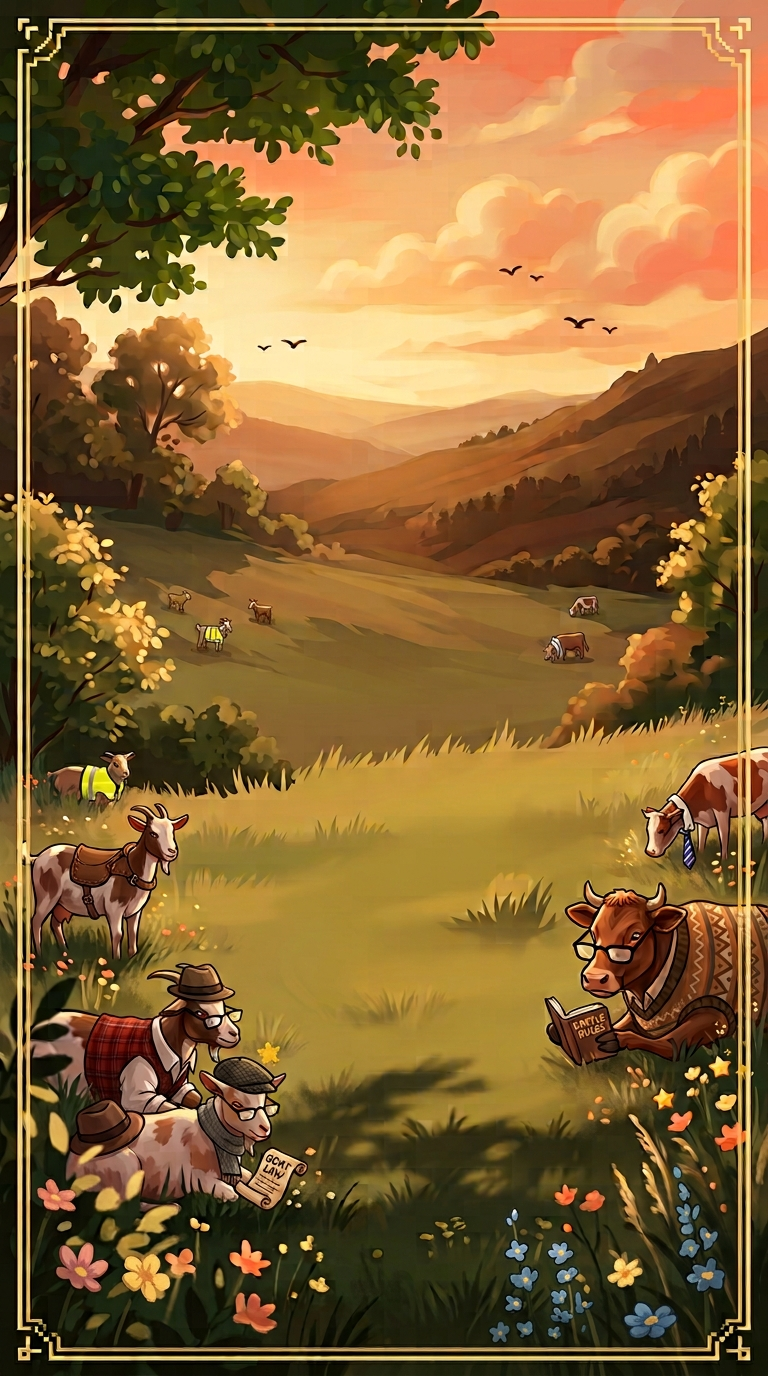
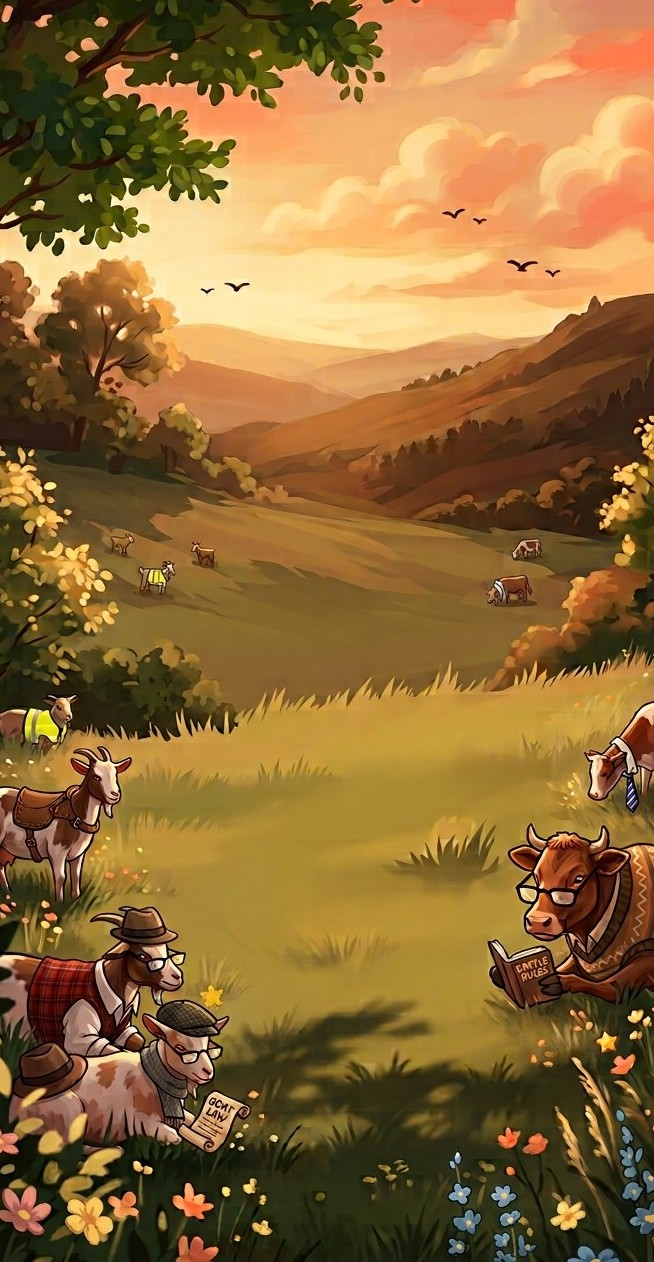
Fix background dead-space on scroll and crop out ornamental frame
background-size:contain only filled one viewport's worth of height,
so on tall scrollable screens (e.g. lobby with many game buttons)
content below that point landed on plain solid color. Crop the
baked-in gold frame out of the source art so cover-sizing (which
fills the screen at any scroll depth) no longer cuts through it.

Claude-Session: https://claude.ai/code/session_01KL2GDAtBjQBBBJxiiqBbG9

diff --git a/public/style.css b/public/style.css
@@ -40,7 +40,7 @@
 body {
   margin: 0;
   min-height: 100vh;
-  background: var(--bg) url('images/bg-gamenight.jpg') center / contain no-repeat fixed;
+  background: var(--bg) url('images/bg-gamenight.jpg') center / cover no-repeat fixed;
   color: var(--text);
   font-family: -apple-system, BlinkMacSystemFont, "Segoe UI", Roboto, Helvetica, Arial, sans-serif;
   display: flex;
